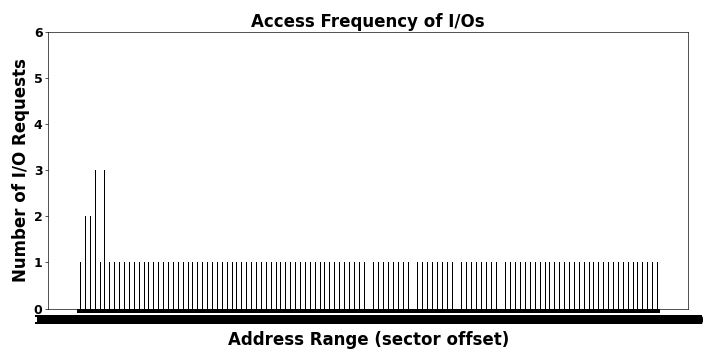
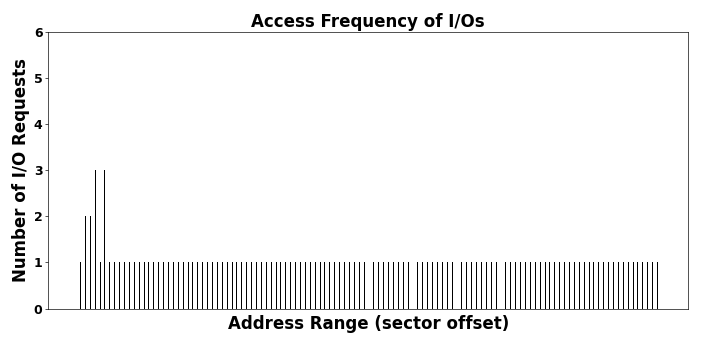
access_freq x axis - utility added

Changed region(s): [[0.0306, 0.8556, 0.9778, 0.9778]]

diff --git a/diagram_output.py b/diagram_output.py
@@ -2,7 +2,6 @@ import pandas as pd
 import matplotlib.pyplot as plt
 import numpy as np
 import time
-from datetime import datetime
 import re
 # from collections import deque
 from pygooglechart import PieChart3D
@@ -169,6 +168,7 @@ for key in sector_range:
     sector_range[key] = round(sector_range[key] / total_requests * 100, 1)
 
 
+# Mixed R/W IO sizes diagram
 
 plt.rcParams.update({'font.size': 15.0, 'font.weight': 'bold'})
 plt.rcParams['figure.figsize'] = [12, 6]
@@ -200,6 +200,7 @@ for key in write_range:
     write_range[key] = round(write_range[key] / total_requests * 100, 1)
 
 
+# separated R/W IO sizes diagram
 
 labels = list(read_range.keys())
 read_means = list(read_range.values())
@@ -264,13 +265,12 @@ plt.close()
 
 starting_sectors = sorted(starting_sectors)
 dic_duplicated = {}
-empty_list = []
+
 for item in starting_sectors:
     if not item in dic_duplicated:
         dic_duplicated[item] = 1
     else:
         dic_duplicated[item] += 1
-    empty_list.append(' ')
 
 dic_duplicated = {str(key): value for key, value in dic_duplicated.items()}
 
@@ -341,6 +341,7 @@ def cdf_freq_range(fn, s, e, i):
 cdf_freq_range(1, 1, 300, 49)
 
 
+# access frequency (TWSD) diagram
 
 plt.rcParams.update({'font.size': 15.0, 'font.weight': 'bold'})
 
@@ -352,8 +353,10 @@ plt.xlabel('Address Range (sector offset)', fontweight='bold', fontsize=20.0)
 
 plt.ylabel('Number of I/O Requests', fontweight='bold', fontsize=20.0)
 
+
 plt.title('Access Frequency of I/Os', fontweight='bold', fontsize=20.0)
 plt.tight_layout()
+plt.xticks([])
 plt.gcf().set_size_inches(12, 6)
 plt.savefig('diagram_results/access_freq.png', dpi=60) 
 plt.close()
